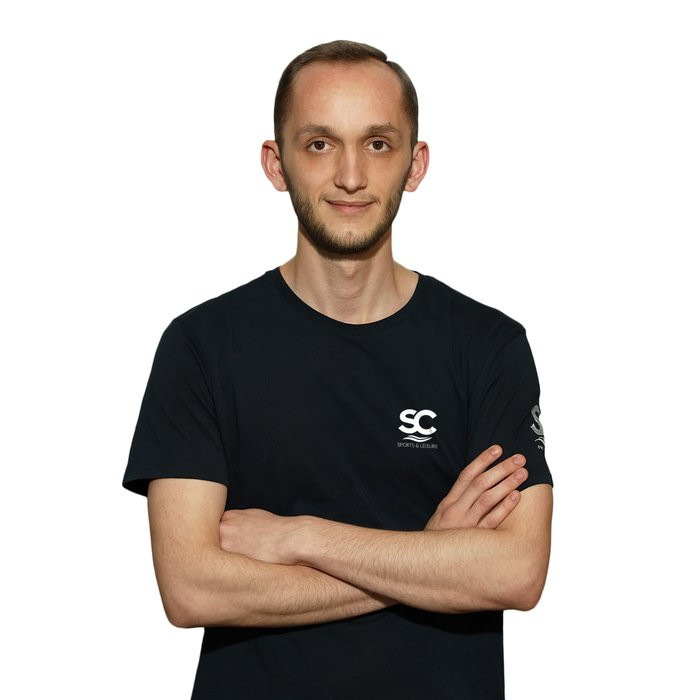
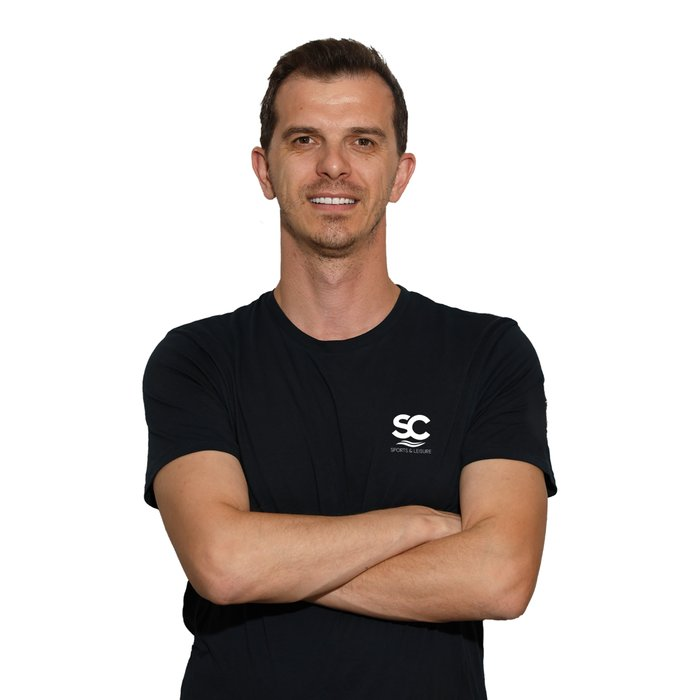
Fix corrupted fonts, replace Besart photo, redesign map card, real coach photos on home, trim language switcher
- Restore Cal Sans/Inter font files (were failing to parse in-browser despite valid headers)
- Swap in real Besart Shala photo from docx
- Replace hover overlay on coach carousel with bottom-half blue gradient
- Remove opacity-driven glow on Hero "Dive into excellence" text
- Replace non-rendering Google Maps iframe with a self-contained map card + real directions link
- Use real coach photos in the home page trainers carousel
- Remove scroll progress bar under header
- Trim language switcher to English/Shqip

diff --git a/src/components/MapLocationSection.tsx b/src/components/MapLocationSection.tsx
@@ -1,6 +1,8 @@
 import React, { useState, useEffect } from "react";
 import { motion, AnimatePresence } from "motion/react";
-import { MapPin, Phone, Mail, Star } from "lucide-react";
+import { MapPin, Phone, Mail, Star, ExternalLink } from "lucide-react";
+
+const MAPS_URL = "https://www.google.com/maps?q=42.628374,21.178652";
 
 interface Testimonial {
   quote: string;
@@ -37,17 +39,45 @@ export const MapLocationSection: React.FC = () => {
     <section id="map-location" className="w-full bg-slate-50 text-slate-900 py-16 px-6 md:px-12 border-t border-slate-200">
       <div className="max-w-7xl mx-auto grid grid-cols-1 lg:grid-cols-12 gap-8 items-stretch">
         
-        {/* Left Side: Interactive Google Map */}
-        <div className="lg:col-span-7 rounded-[24px] overflow-hidden shadow-xl border border-slate-200 min-h-[400px] lg:min-h-[500px] relative group bg-white">
-          <iframe
-            title="Step Sport Center Location Map"
-            src="https://www.google.com/maps/embed?pb=!1m18!1m12!1m3!1d2935.1581452654316!2d21.178652315465227!3d42.62837377916962!2m3!1f0!2f0!3f0!3m2!1i1024!2i768!4f13.1!3m3!1m2!1s0x13549dcd67b2d29f%3A0xbcaef2be50be0689!2sSTEP%20Sport%20Center!5e0!3m2!1sen!2s!4v1650000000000!5m2!1sen!2s"
-            className="absolute inset-0 w-full h-full border-0"
-            allowFullScreen={true}
-            loading="lazy"
-            referrerPolicy="no-referrer-when-downgrade"
-          />
-        </div>
+        {/* Left Side: Map Card linking out to the real Step Sport Center location */}
+        <a
+          href={MAPS_URL}
+          target="_blank"
+          rel="noopener noreferrer"
+          className="lg:col-span-7 rounded-[24px] overflow-hidden shadow-xl border border-slate-200 min-h-[400px] lg:min-h-[500px] relative group bg-gradient-to-br from-sky-100 via-sky-50 to-blue-100 block"
+        >
+          {/* Decorative street-grid pattern */}
+          <div className="absolute inset-0 bg-[linear-gradient(to_right,rgba(14,165,233,0.08)_1px,transparent_1px),linear-gradient(to_bottom,rgba(14,165,233,0.08)_1px,transparent_1px)] bg-[size:3rem_3rem]" />
+          <svg className="absolute inset-0 w-full h-full opacity-30" preserveAspectRatio="none">
+            <line x1="0%" y1="30%" x2="100%" y2="45%" stroke="#0ea5e9" strokeWidth="3" />
+            <line x1="20%" y1="0%" x2="35%" y2="100%" stroke="#0ea5e9" strokeWidth="3" />
+            <line x1="0%" y1="75%" x2="100%" y2="65%" stroke="#38bdf8" strokeWidth="2" />
+          </svg>
+
+          {/* Center pin + info */}
+          <div className="absolute inset-0 flex flex-col items-center justify-center gap-4 p-8 text-center">
+            <div className="relative flex items-center justify-center">
+              <span className="absolute w-16 h-16 rounded-full bg-sky-400/30 animate-ping" />
+              <span className="relative flex items-center justify-center w-14 h-14 rounded-full bg-sky-500 shadow-lg shadow-sky-500/40">
+                <MapPin className="w-7 h-7 text-white" fill="currentColor" />
+              </span>
+            </div>
+
+            <div>
+              <h3 className="text-xl font-black text-blue-950 uppercase tracking-tight">
+                Step Sport Center
+              </h3>
+              <p className="font-ui text-sm text-slate-600 mt-1">
+                Veternik, M25-2, Prishtina, Kosovo
+              </p>
+            </div>
+
+            <span className="inline-flex items-center gap-2 px-6 py-3 rounded-full bg-sky-500 group-hover:bg-sky-600 text-white font-ui font-bold text-sm shadow-lg transition-all duration-300 group-active:scale-95">
+              Open in Google Maps
+              <ExternalLink className="w-4 h-4" />
+            </span>
+          </div>
+        </a>
 
         {/* Right Side: Step Sport Center Info & Testimonials Carousel */}
         <div className="lg:col-span-5 flex flex-col justify-center items-center text-center px-4 md:px-8 py-6">

diff --git a/src/components/TrainersSection.tsx b/src/components/TrainersSection.tsx
@@ -1,22 +1,22 @@
 import React, { useEffect, useState } from "react";
 import { motion } from "motion/react";
 
-import trainer1 from "../assets/images/trainer_1_1784608728880.jpg";
-import trainer2 from "../assets/images/trainer_2_1784608745933.jpg";
-import trainer3 from "../assets/images/trainer_3_1784608768746.jpg";
-import trainer4 from "../assets/images/trainer_4_1784608788501.jpg";
-import trainer5 from "../assets/images/trainer_5_1784608807860.jpg";
+import ritaImg from "../assets/images/coaches/rita_zeqiri.jpg";
+import besartImg from "../assets/images/coaches/besart_shala.jpg";
+import hanaImg from "../assets/images/coaches/hana_fejzullahu.jpg";
+import elonaImg from "../assets/images/coaches/elona_toverlani.jpg";
+import erjonBuzhalaImg from "../assets/images/coaches/erjon_buzhala.jpg";
 
 export const TrainersSection: React.FC = () => {
   const [activeIndex, setActiveIndex] = useState(0);
   const [isHovered, setIsHovered] = useState(false);
 
   const trainers = [
-    { id: 1, image: trainer1 },
-    { id: 2, image: trainer2 },
-    { id: 3, image: trainer3 },
-    { id: 4, image: trainer4 },
-    { id: 5, image: trainer5 },
+    { id: 1, name: "Rita Zeqiri", image: ritaImg },
+    { id: 2, name: "Besart Shala", image: besartImg },
+    { id: 3, name: "Hana Fejzullahu", image: hanaImg },
+    { id: 4, name: "Elona Toverlani", image: elonaImg },
+    { id: 5, name: "Erjon Buzhala", image: erjonBuzhalaImg },
   ];
 
   useEffect(() => {
@@ -128,7 +128,7 @@ export const TrainersSection: React.FC = () => {
             >
               <img
                 src={trainer.image}
-                alt={`Trainer ${trainer.id}`}
+                alt={trainer.name}
                 referrerPolicy="no-referrer"
                 className="w-full h-full object-cover select-none pointer-events-none"
               />

diff --git a/src/App.tsx b/src/App.tsx
@@ -127,22 +127,6 @@ export default function App() {
       {/* 1. Sticky/Slide-in glass-morphic Header */}
       <Header isVisible={isHeaderVisible} activeSection={activeSection} />
 
-      {/* Elegant global scroll progress bar on top of the sticky header */}
-      {isHeaderVisible && (
-        <div className="fixed top-0 left-0 right-0 h-1 bg-white/5 z-50 pointer-events-none">
-          <motion.div 
-            className="h-full bg-gradient-to-r from-sky-400 to-blue-500 origin-left"
-            style={{
-              width: `${(scrollProgress * 100)}%` // visual scroll aid
-            }}
-            animate={{
-              width: `${Math.min(100, Math.max(0, (window.scrollY / (document.documentElement.scrollHeight - window.innerHeight)) * 100))}%`
-            }}
-            transition={{ duration: 0.1, ease: "easeOut" }}
-          />
-        </div>
-      )}
-
       {/* Main Single-Page Section Stack / Multi-Page Routing */}
       <main className="w-full">
         {currentPage === "about-us" ? (

diff --git a/src/components/Header.tsx b/src/components/Header.tsx
@@ -108,7 +108,7 @@ export const Header: React.FC<HeaderProps> = ({ isVisible, activeSection }) => {
                     exit={{ opacity: 0, y: 10, scale: 0.95 }}
                     className="absolute right-0 mt-2 py-2 w-28 rounded-xl bg-slate-900 border border-white/15 shadow-2xl overflow-hidden z-50 text-xs text-left text-white backdrop-blur-xl"
                   >
-                    {["EN", "ES", "TR"].map((lang) => (
+                    {["EN", "SQ"].map((lang) => (
                       <button
                         key={lang}
                         onClick={() => {
@@ -119,7 +119,7 @@ export const Header: React.FC<HeaderProps> = ({ isVisible, activeSection }) => {
                           currentLang === lang ? "text-sky-400 bg-sky-950/40" : "text-gray-300"
                         }`}
                       >
-                        {lang === "EN" ? "English" : lang === "ES" ? "Español" : "Türkçe"}
+                        {lang === "EN" ? "English" : "Shqip"}
                       </button>
                     ))}
                   </motion.div>
@@ -166,7 +166,7 @@ export const Header: React.FC<HeaderProps> = ({ isVisible, activeSection }) => {
 
                   {/* Mobile language picker */}
                   <div className="flex gap-2">
-                    {["EN", "ES", "TR"].map((lang) => (
+                    {["EN", "SQ"].map((lang) => (
                       <button
                         key={lang}
                         onClick={() => setCurrentLang(lang)}

diff --git a/src/components/CoachesPage.tsx b/src/components/CoachesPage.tsx
@@ -167,7 +167,7 @@ export const CoachesPage: React.FC = () => {
                         className="w-full h-full object-cover group-hover:scale-110 transition-transform duration-700"
                       />
                       {/* Name overlay, revealed only on hover */}
-                      <div className="absolute inset-0 bg-slate-950/80 flex items-end justify-center pb-6 opacity-0 group-hover:opacity-100 transition-opacity duration-300">
+                      <div className="absolute inset-x-0 bottom-0 h-1/2 bg-gradient-to-t from-sky-600/95 via-sky-500/50 to-transparent flex items-end justify-center pb-4 opacity-0 group-hover:opacity-100 transition-opacity duration-300">
                         <span className="text-base sm:text-lg font-extrabold text-white uppercase tracking-tight text-center px-2">
                           {coach.name}
                         </span>

diff --git a/src/components/HeroSection.tsx b/src/components/HeroSection.tsx
@@ -123,7 +123,7 @@ export const HeroSection: React.FC<HeroSectionProps> = ({ scrollProgress }) => {
             {/* Center align text "dive into excellence" */}
             <motion.span
               initial={{ opacity: 0, y: -10 }}
-              animate={{ opacity: 0.85, y: 0 }}
+              animate={{ opacity: 1, y: 0 }}
               transition={{ delay: 0.7, duration: 0.8 }}
               className="text-[10px] sm:text-xs md:text-xs uppercase tracking-[0.45em] text-sky-300 font-black mb-3 text-center"
             >